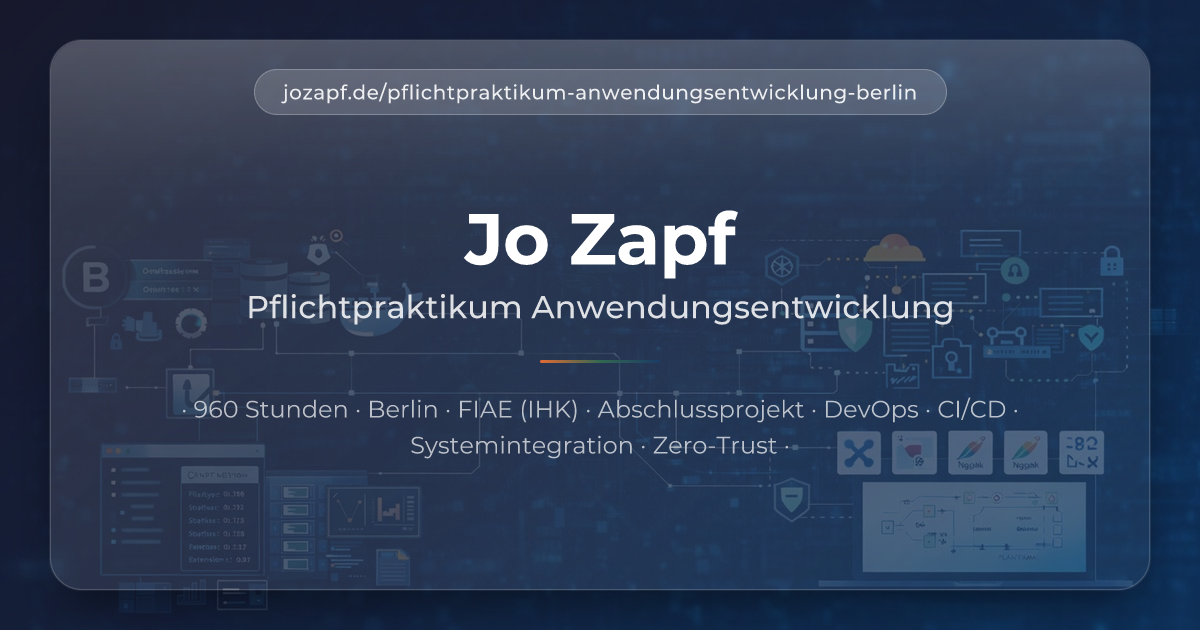
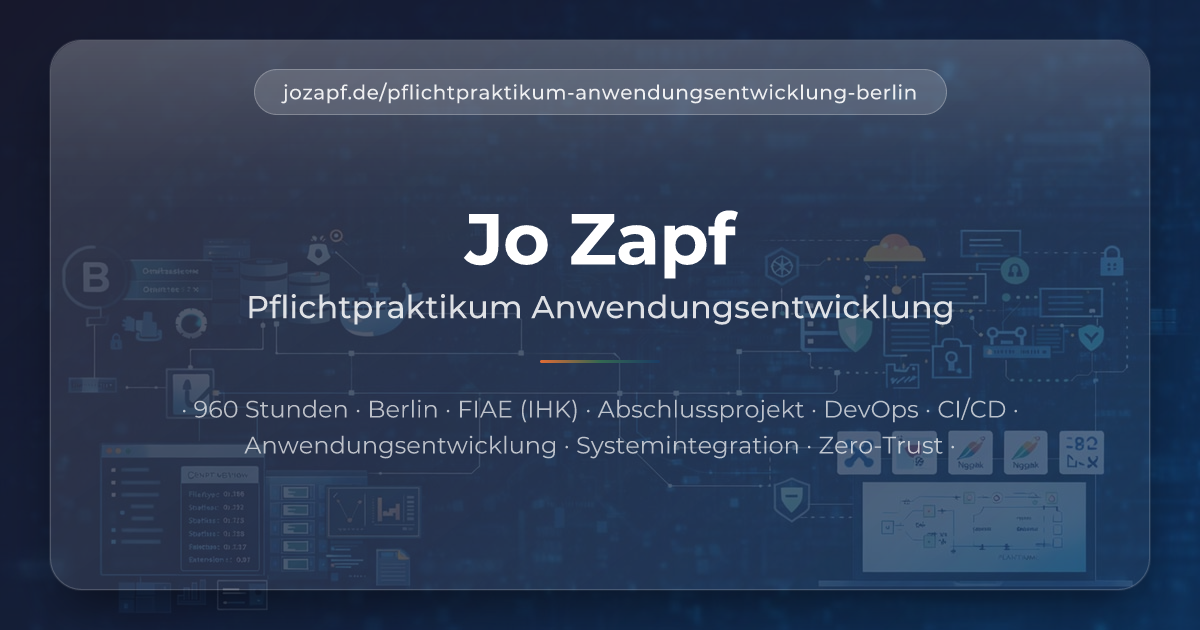
docs: updating og-images

Changed region(s): [[0.185, 0.6937, 0.8017, 0.7238]]

diff --git a/scripts/generate-og-images.ts b/scripts/generate-og-images.ts
@@ -61,14 +61,14 @@ const CONTENT = {
   'praktikum-de': {
     title: 'Jo Zapf',
     subtitle: 'Pflichtpraktikum Anwendungsentwicklung',
-    description: '· 960 Stunden · Berlin · FIAE (IHK) · Abschlussprojekt · DevOps · CI/CD · Systemintegration · Zero-Trust ·',
+    description: '· 960 Stunden · Berlin · FIAE (IHK) · Abschlussprojekt · DevOps · CI/CD · Anwendungsentwicklung · Systemintegration · Zero-Trust ·',
     badge: 'jozapf.de/pflichtpraktikum-anwendungsentwicklung-berlin',
     filename: 'og-praktikum-de.png',
   },
   'praktikum-en': {
     title: 'Jo Zapf',
     subtitle: 'Mandatory Internship · Application Development',
-    description: '960 hours · Berlin · FIAE (IHK) · final project · DevOps · CI/CD · system integration · zero-trust ·',
+    description: '960 hours · Berlin · FIAE (IHK) · final project · DevOps · CI/CD · application development ·system integration · zero-trust ·',
     badge: 'jozapf.de/en/pflichtpraktikum-anwendungsentwicklung-berlin',
     filename: 'og-praktikum-en.png',
   },
